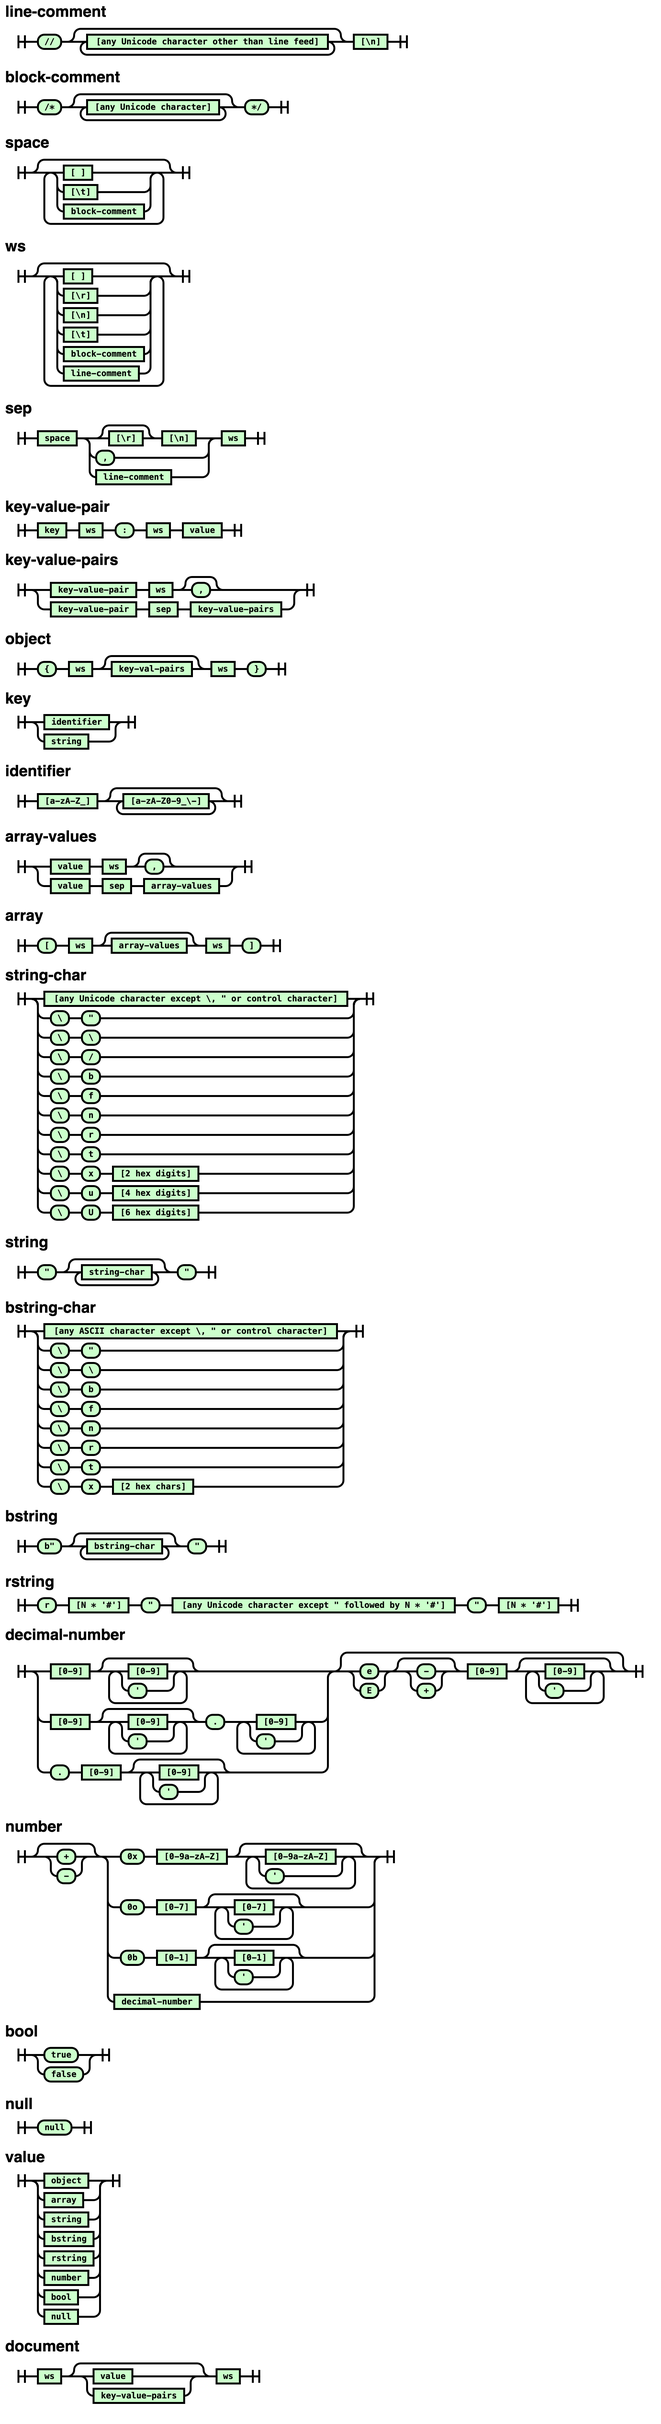
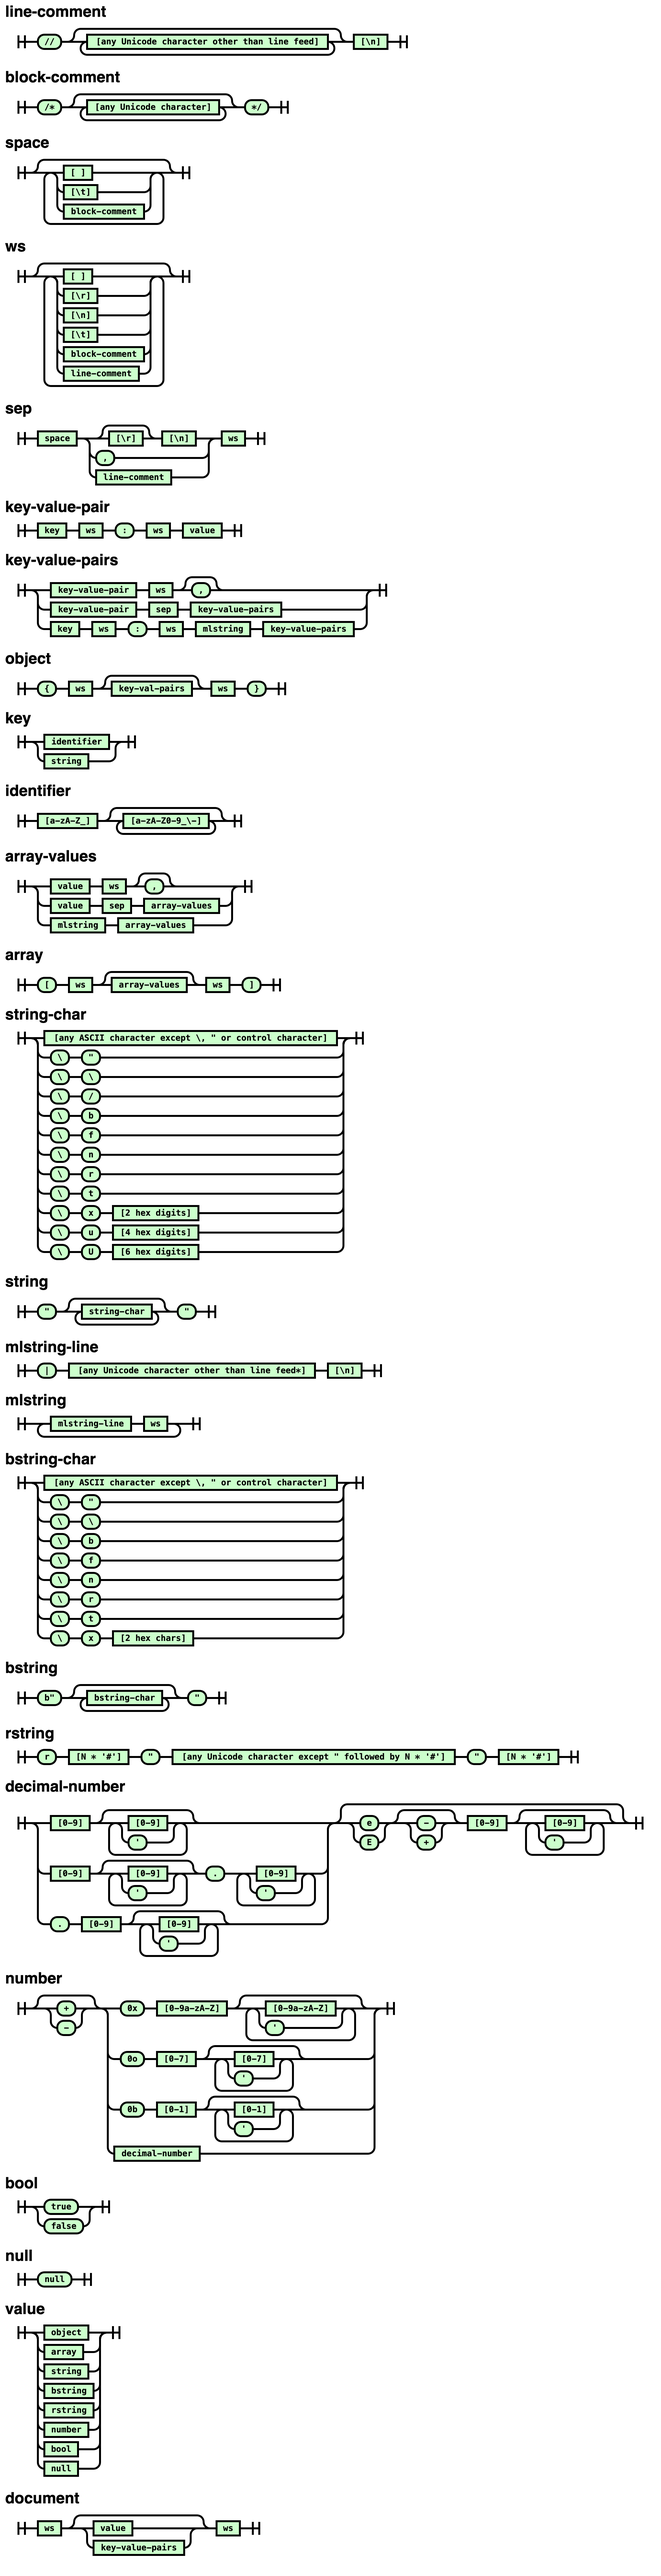
add zig-style multi-line strings

Changed region(s): [[0.0, 0.0, 0.9564, 0.8408], [0.0, 0.8408, 0.3085, 0.9965], [0.3394, 0.9654, 0.3702, 0.9965]]

diff --git a/README.md b/README.md
@@ -65,6 +65,19 @@ this: "is a value" // Another comment
 * Decimals with omitted leading zero: `.34`
 * Leading positive sign: `+0.3`, `-.7`, `+.9`
 
+* Multi-line strings:
+
+```
+title: "helloworld.c"
+content:
+    |#include <stdio.h>
+    |
+    |int main() {
+    |    printf("Hello World\n");
+    |    return 0;
+    |}
+```
+
 ## Syntax
 
 See [mason.bnf](./mason.bnf) for a description of the MASON syntax in BNF.
@@ -187,3 +200,21 @@ If you somehow like YAML, use it. I won't.
   can be encoded in 3 ways: the literal emoji in the string `"🙃"`,
   the single `\U` escape `"\U01F643"`,
   or the surrogate pair sequence `"\uD83D\uDE43"`.
+* Multi-line strings have a single line-feed character inserted between the lines.
+  Carriage returns before the line feed are ignored (i.e they are not part of the line).
+
+That means that this MASON document:
+
+```
+|Hello
+|World
+```
+
+is always equivalent to this JSON data:
+
+```
+"Hello\nWorld"
+```
+
+Regardless of whether the file uses CRLF (Windows-style) or LF (UNIX-style)
+line endings.
